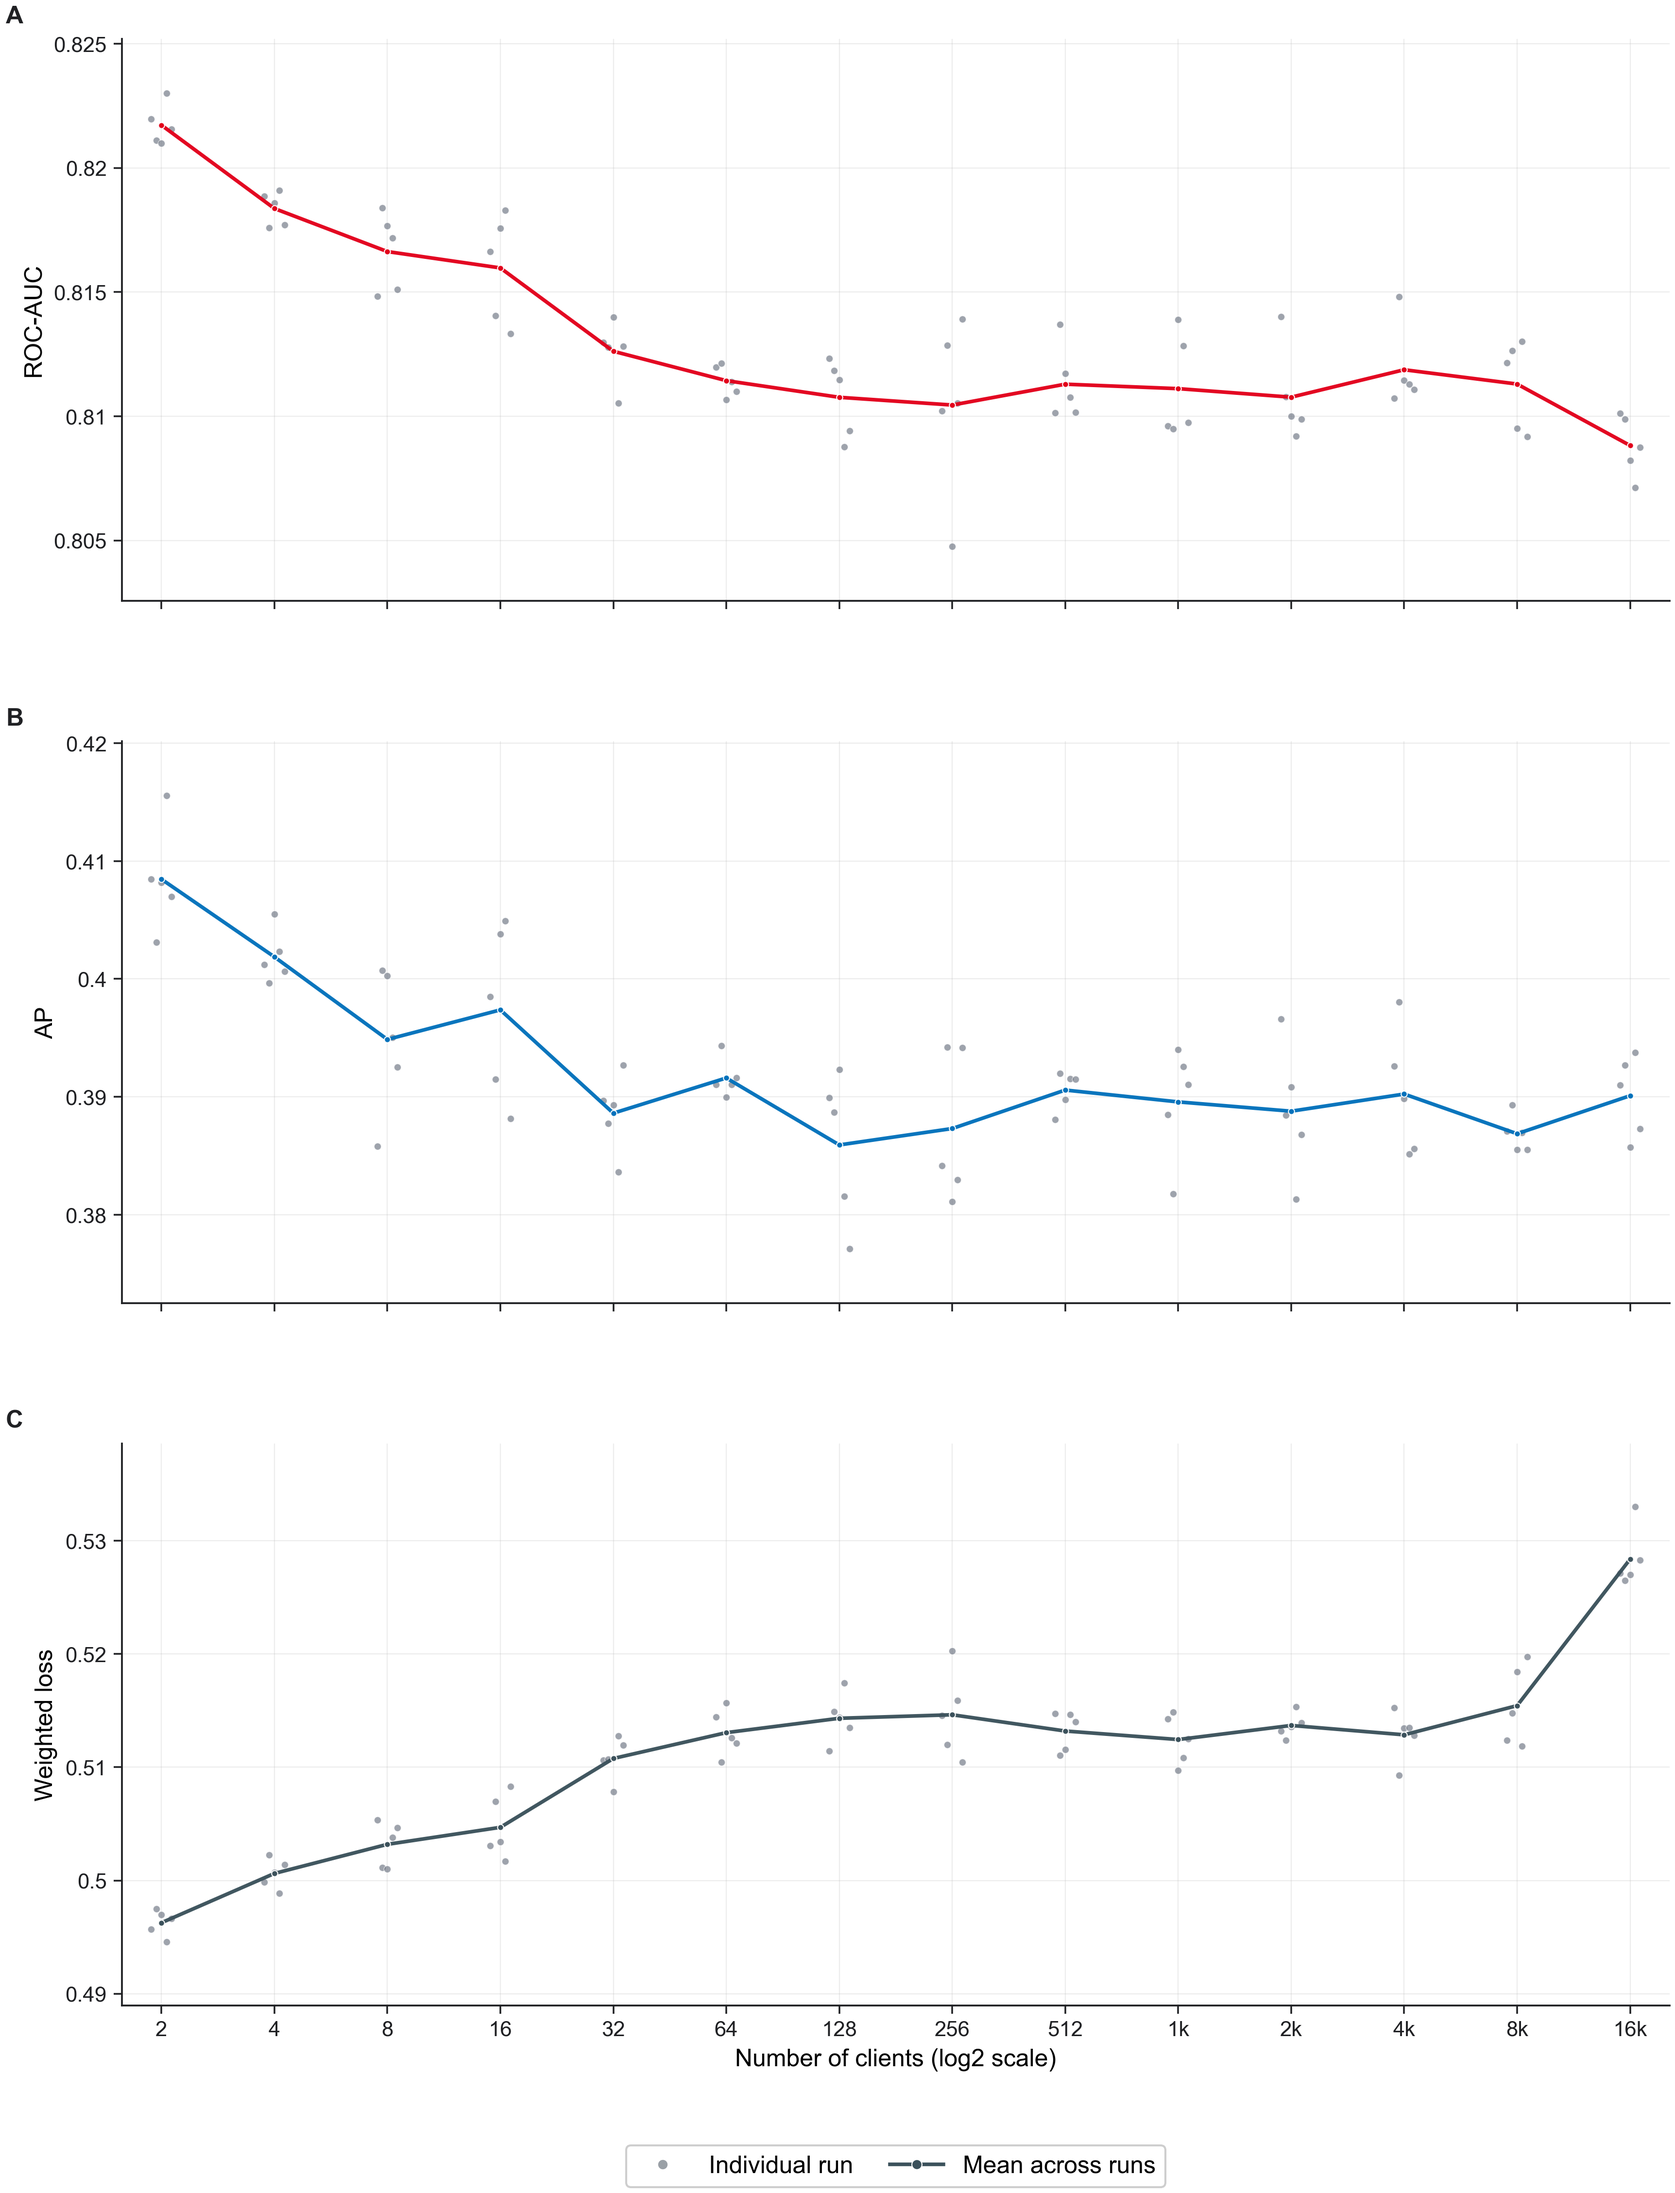
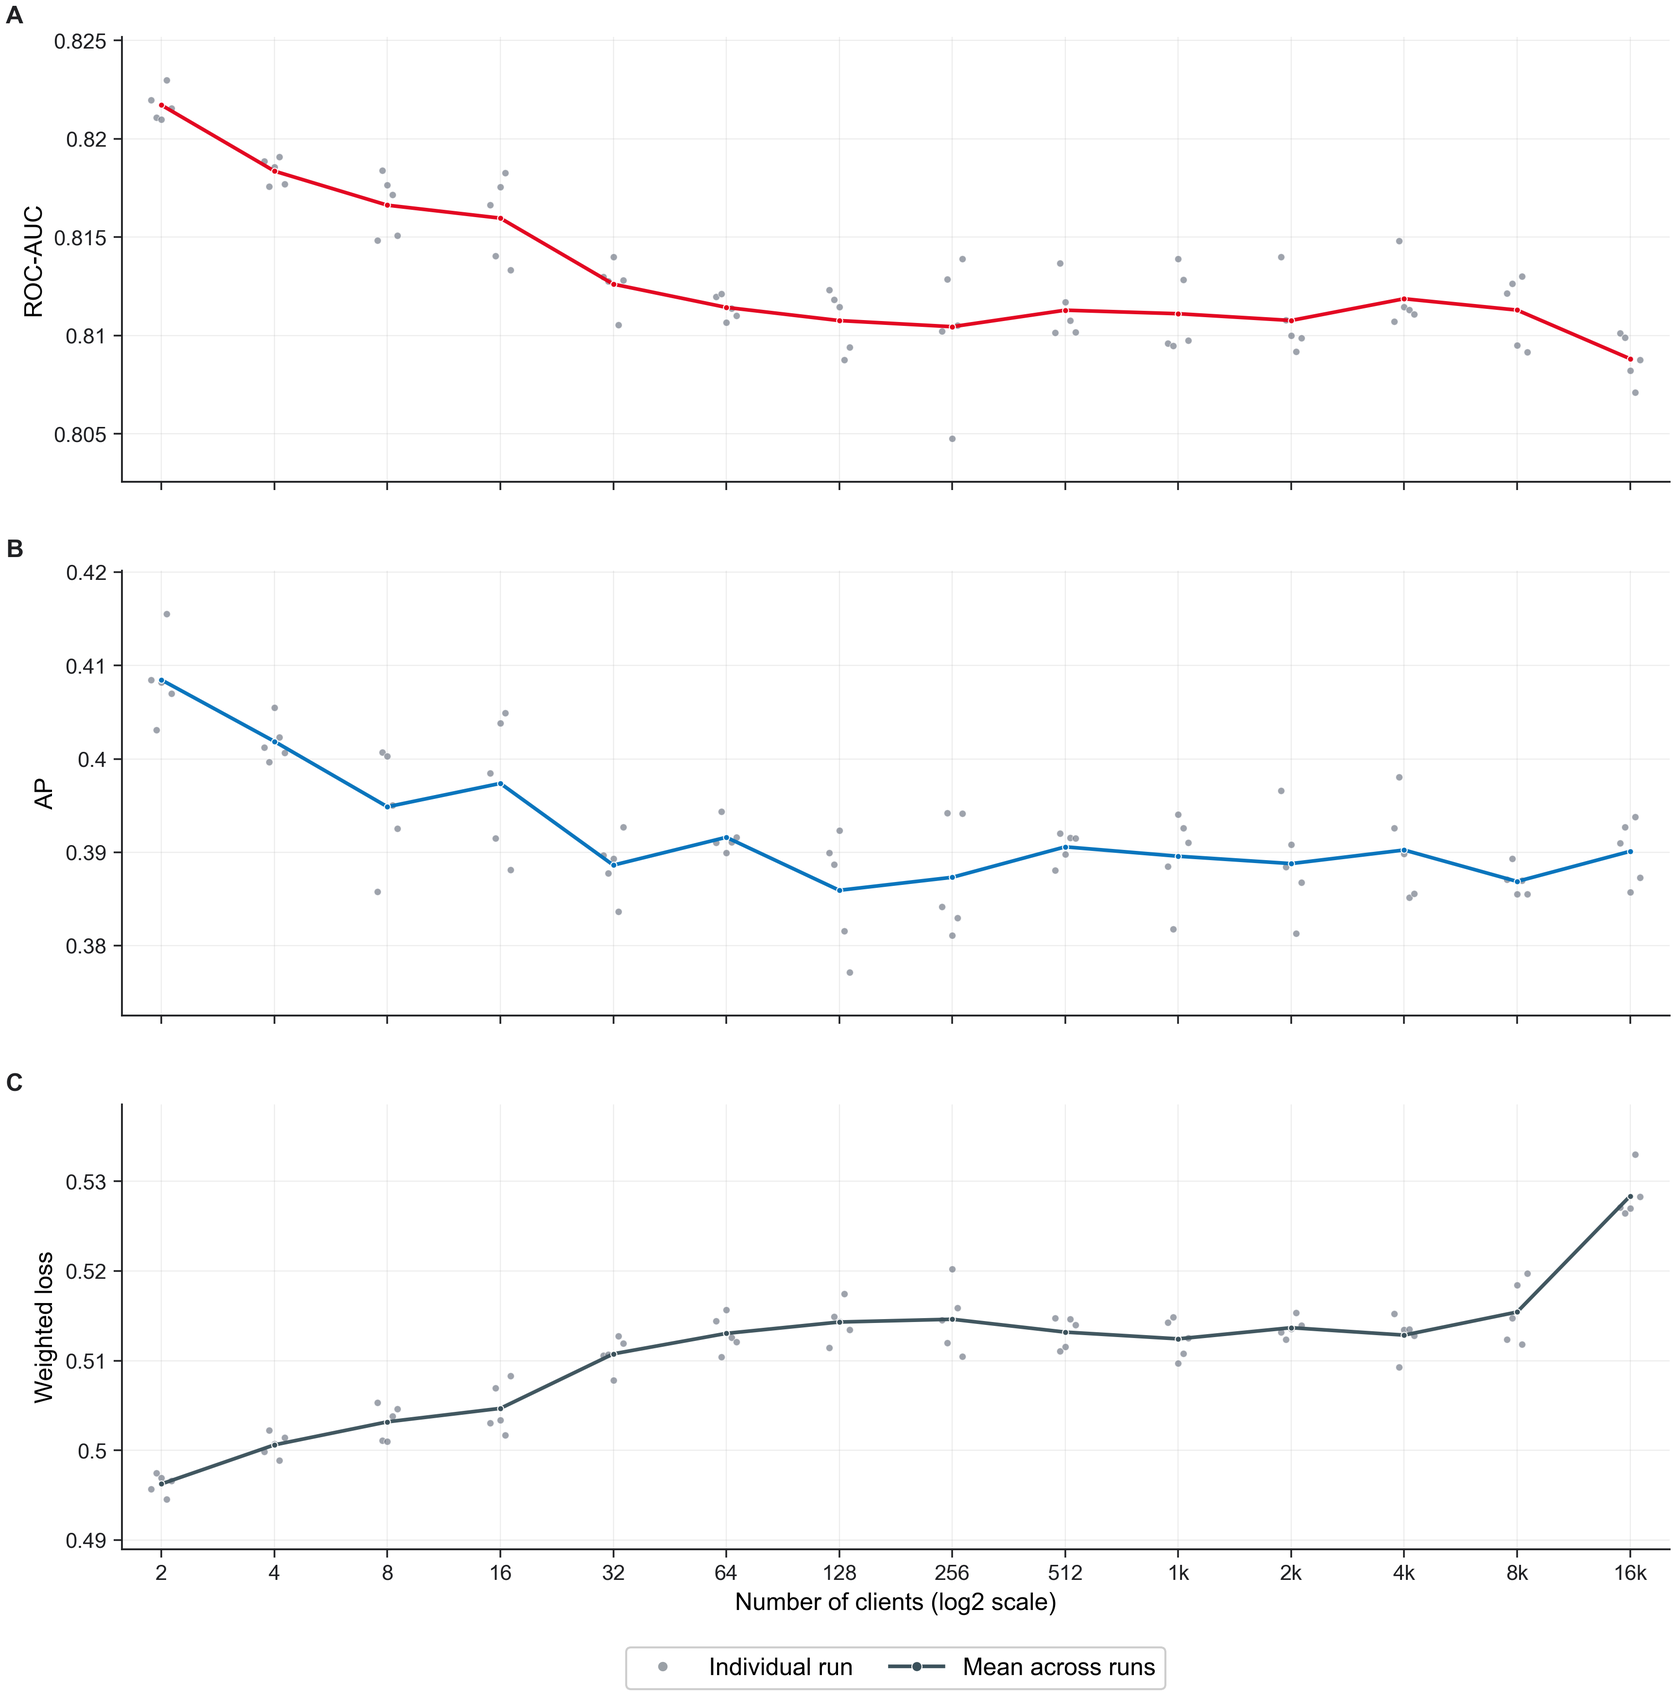
new plot, design

diff --git a/plot-thr-indep-scaffold.py b/plot-thr-indep-scaffold.py
@@ -662,11 +662,11 @@ def plot_absolute_performance(
     fig, axes = plt.subplots(
         3,
         1,
-        figsize=(width, width * 1.30),
+        figsize=(width, width * 1.0),
         sharex=True,
         constrained_layout=False,
     )
-    fig.subplots_adjust(left=0.10, right=0.985, top=0.985, bottom=0.12, hspace=0.25)
+    fig.subplots_adjust(left=0.10, right=0.985, top=0.985, bottom=0.12, hspace=0.20)
 
     export_rows: List[Dict[str, object]] = []
 
